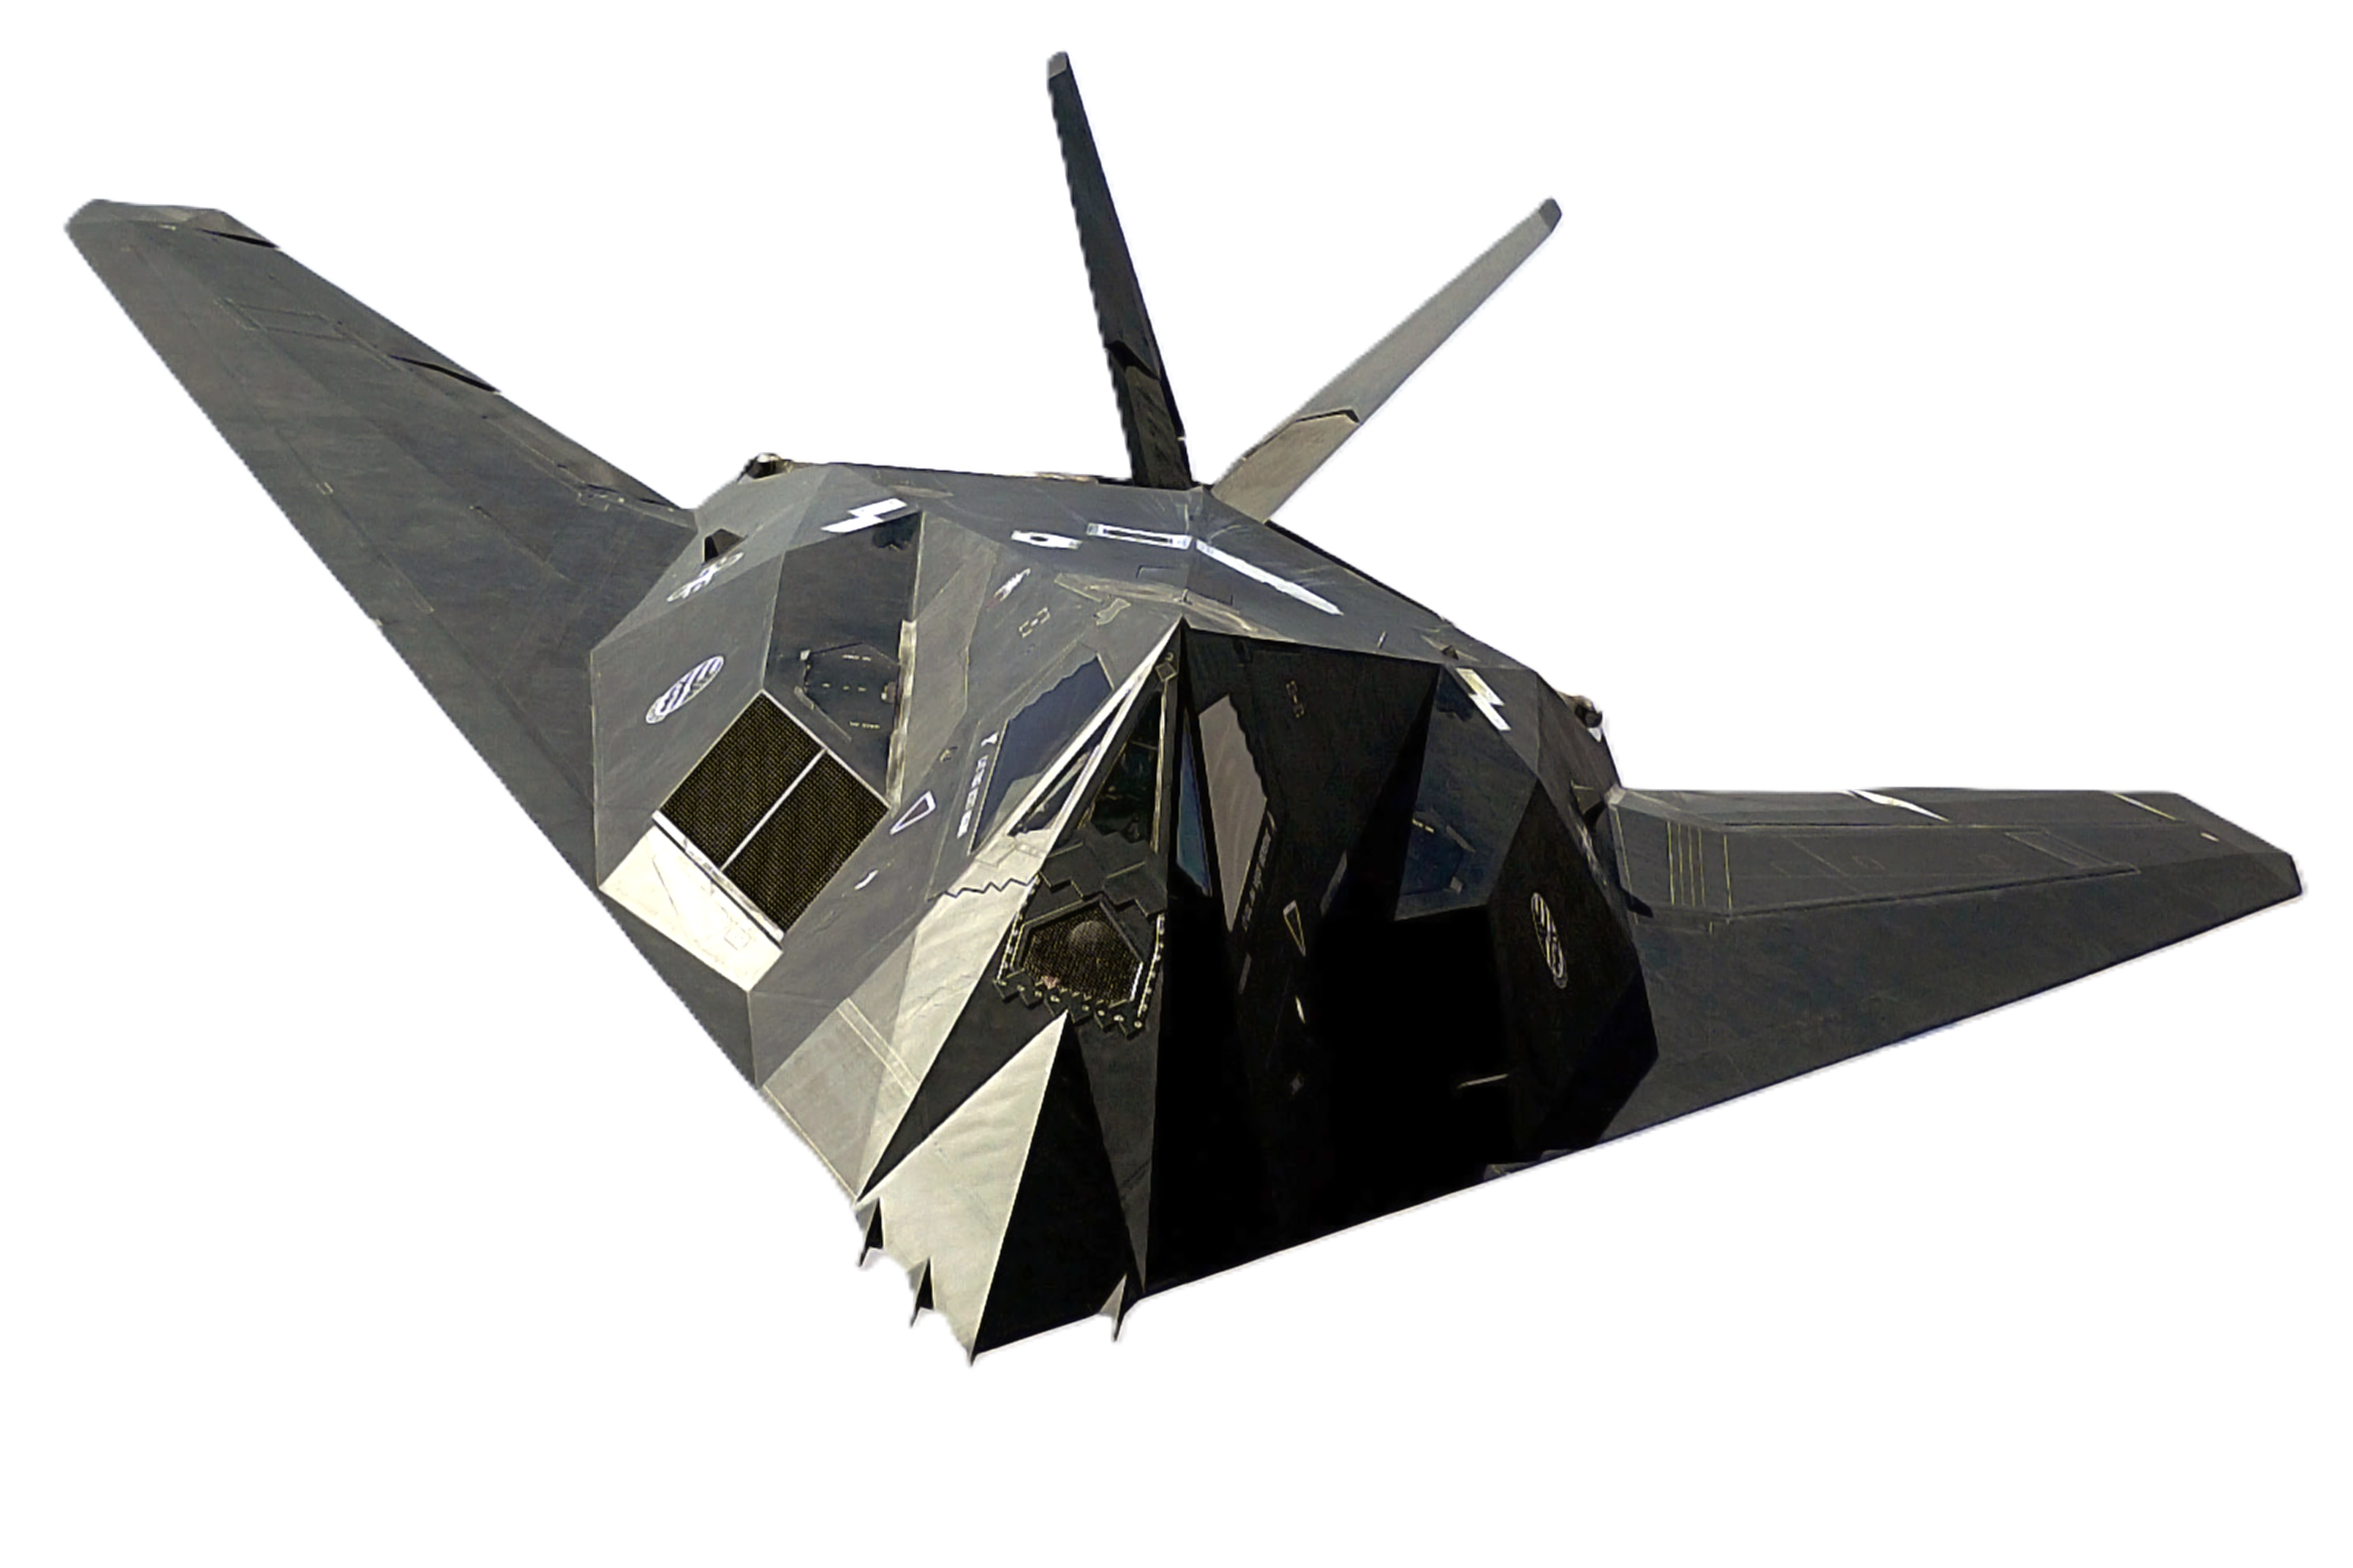
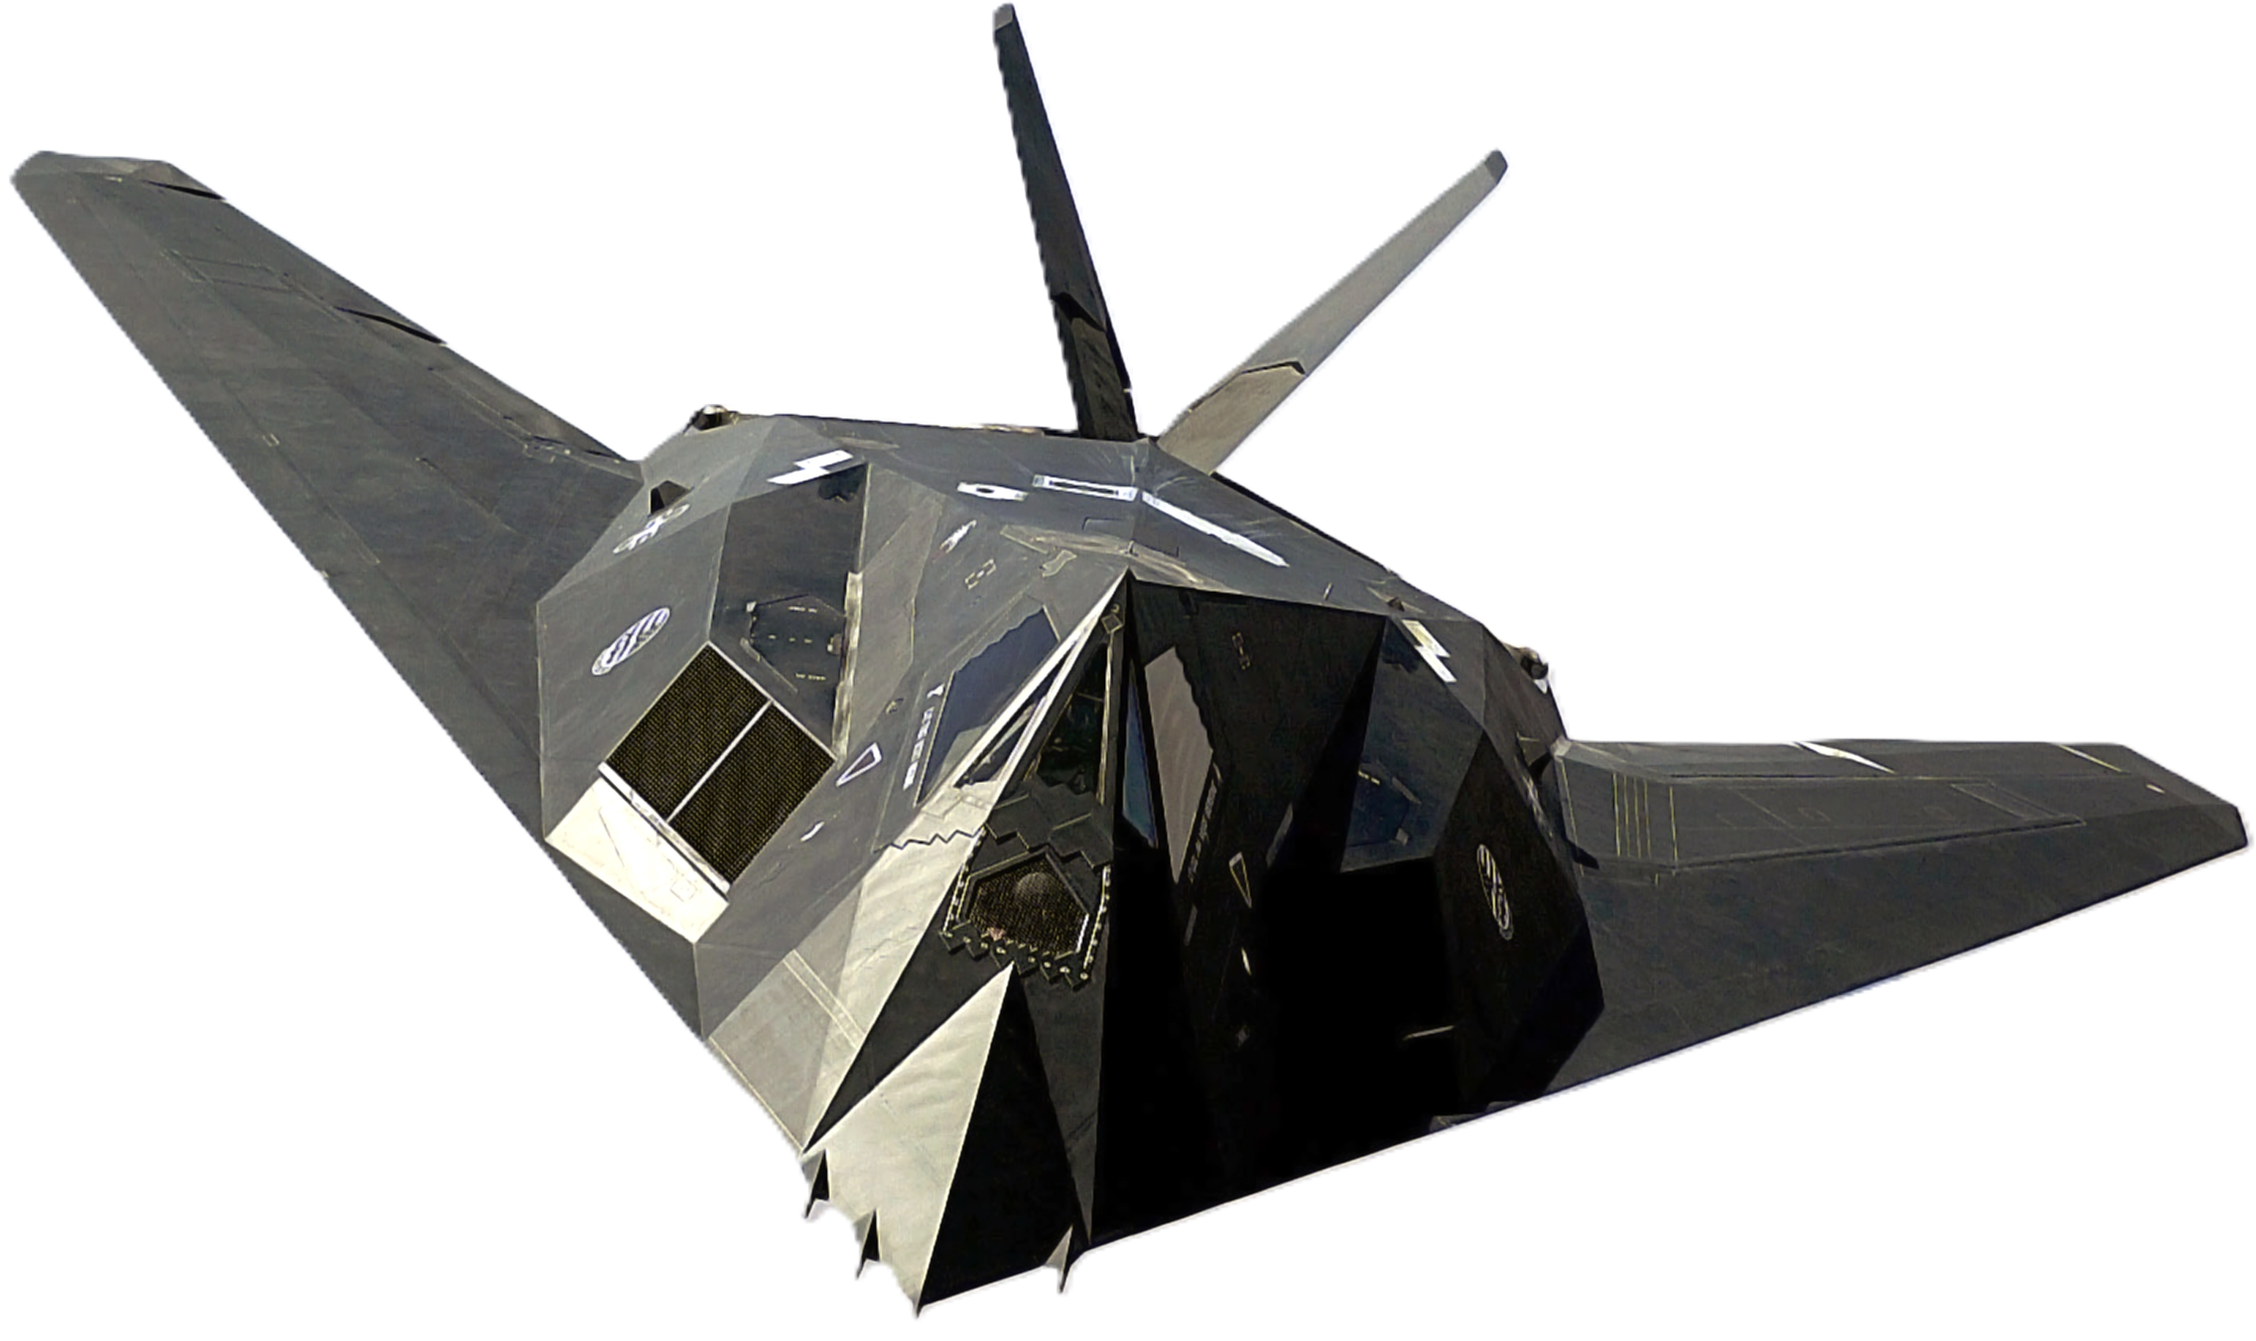
improved more; cropped images

Changed region(s): [[0.0, 0.0, 0.9979, 0.9994], [0.6237, 0.0937, 0.6861, 0.1874]]

diff --git a/chapters/resources/intro/ex_pareto.tex b/chapters/resources/intro/ex_pareto.tex
@@ -66,8 +66,8 @@
         \node[color=blue, ,style=transform shape] at (axis cs: -0.4,0.6) {\small Non-optimal shapes};
         \node[style=transform shape, rotate=-40, anchor=south] at (axis cs: -0.7,0.29) {Pareto front};
 
-        \node[below right, anchor=north west] at (-1.,1) {\includegraphics[scale=0.01]{images/intro/Lockheed_SR-71_Blackbird_detoure.png}};
-        \node[above left, anchor=south east] at (-0.2,0.07) {\includegraphics[scale=0.01]{images/intro/F-117_Nighthawk_Front_detoure.png}};
+        \node[below right, anchor=north west] at (axis cs:-0.98,1) {\includegraphics[scale=0.015]{images/intro/Lockheed_SR-71_Blackbird_detoure.png}};
+        \node[above left, anchor=south] at (axis cs:-0.3,0.046) {\includegraphics[scale=0.015]{images/intro/F-117_Nighthawk_Front_detoure.png}};
     \end{axis}
 \end{tikzpicture}
 \end{document}
